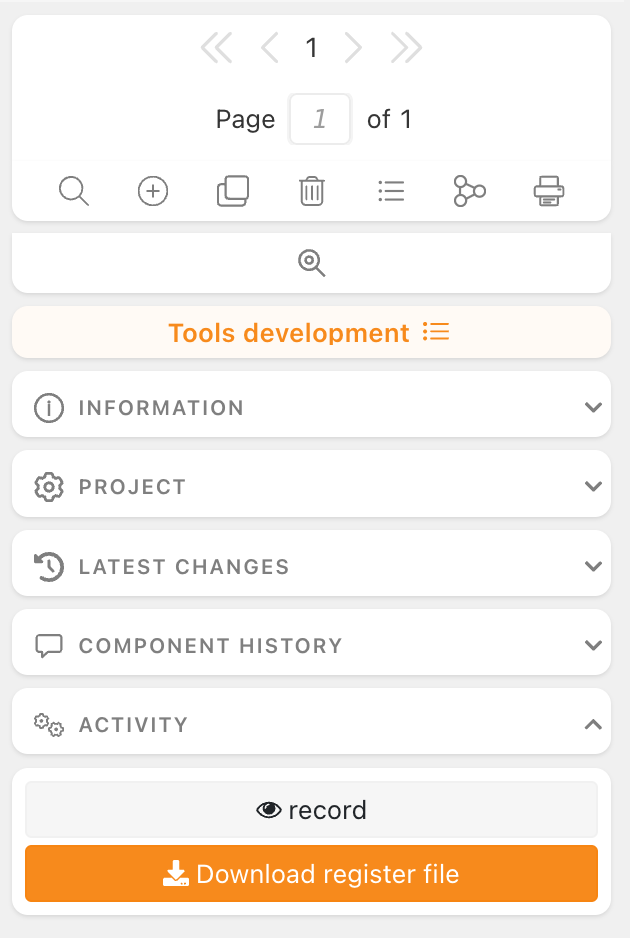
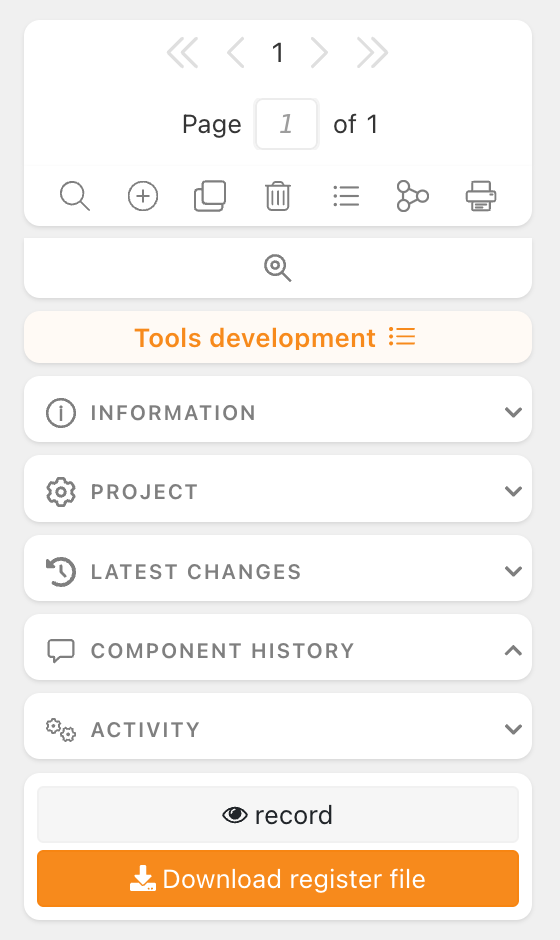
docs: add dark mode support for export register file screenshot
Added dark mode version of the export register file screenshot and updated documentation to use conditional display for light/dark themes, ensuring proper rendering in both color schemes.

diff --git a/docs/development/tools/creating_tools.md b/docs/development/tools/creating_tools.md
@@ -131,7 +131,8 @@ Tools need a register file carrying the configuration, labels and other informat
 
 ## 4. Export the register file
 
-![download register file](assets/20260813_131945_export_register_file.png){ width="275" align=right }
+![download register file](assets/20260813_131945_export_register_file.png#only-light){ width="245" align=right }
+![download register file](assets/20260813_131945_export_register_file-dark.png#only-dark){ width="245" align=right }
 
 When the record is complete, press **Download register file** in the inspector (bottom of the *Info* block, next to *View record data*). It is offered on `dd1340` records only.
 
